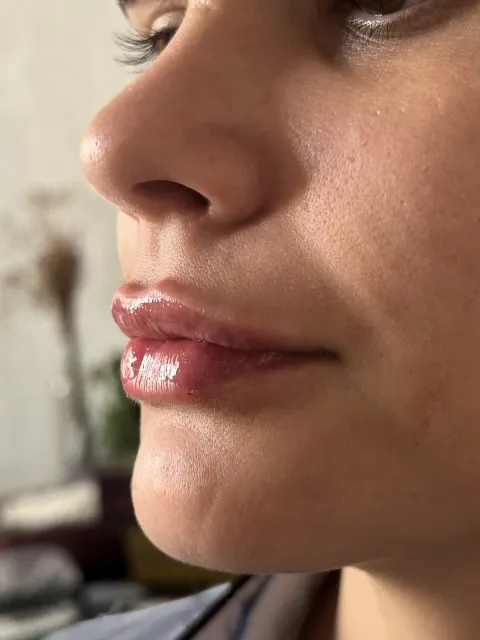
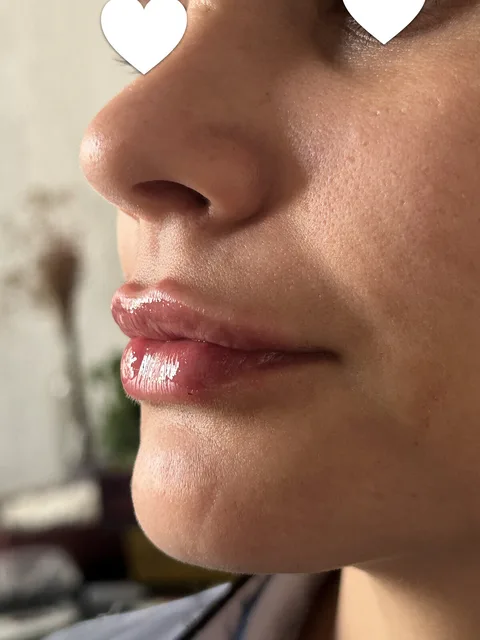
feat(results): add jaw and nose cases and hide patients' eyes
Adds a jaw and chin case and two nose reshaping cases to the
before-and-after gallery. Every procedure photo that shows a patient's
eyes now carries a white heart over each eye to protect identity.

Changed region(s): [[0.1875, 0.0, 0.4062, 0.125], [0.7188, 0.0, 0.9062, 0.0938]]

diff --git a/config/results.php b/config/results.php
@@ -31,6 +31,36 @@
 
 return [
     [
+        'id' => 'preenchimento-mandibula-e-queixo-1',
+        'procedure' => 'preenchimento-mandibula-e-queixo',
+        'title' => 'Queixo projetado, mandíbula definida',
+        'type' => 'combined',
+        'image' => 'resultados/preenchimento-mandibula-e-queixo-1.jpg',
+        'layout' => 'horizontal',
+        'alt' => 'preenchimento de mandíbula e queixo de perfil em Belo Horizonte — Dra. Emily Beatriz',
+        'featured' => true,
+    ],
+    [
+        'id' => 'rinomodelacao-1',
+        'procedure' => 'rinomodelacao-e-refinamento-facial',
+        'title' => 'Dorso do nariz alinhado',
+        'type' => 'combined',
+        'image' => 'resultados/rinomodelacao-1.jpg',
+        'layout' => 'horizontal',
+        'alt' => 'rinomodelação com ácido hialurônico de perfil em Belo Horizonte — Dra. Emily Beatriz',
+        'featured' => true,
+    ],
+    [
+        'id' => 'rinomodelacao-2',
+        'procedure' => 'rinomodelacao-e-refinamento-facial',
+        'title' => 'Perfil do nariz suavizado',
+        'type' => 'combined',
+        'image' => 'resultados/rinomodelacao-2.jpg',
+        'layout' => 'horizontal',
+        'alt' => 'rinomodelação para suavizar a giba nasal em Belo Horizonte — Dra. Emily Beatriz',
+        'featured' => true,
+    ],
+    [
         'id' => 'harmonizacao-facial-contorno-1',
         'procedure' => 'harmonizacao-facial',
         'title' => 'Papada reduzida, contorno definido',
